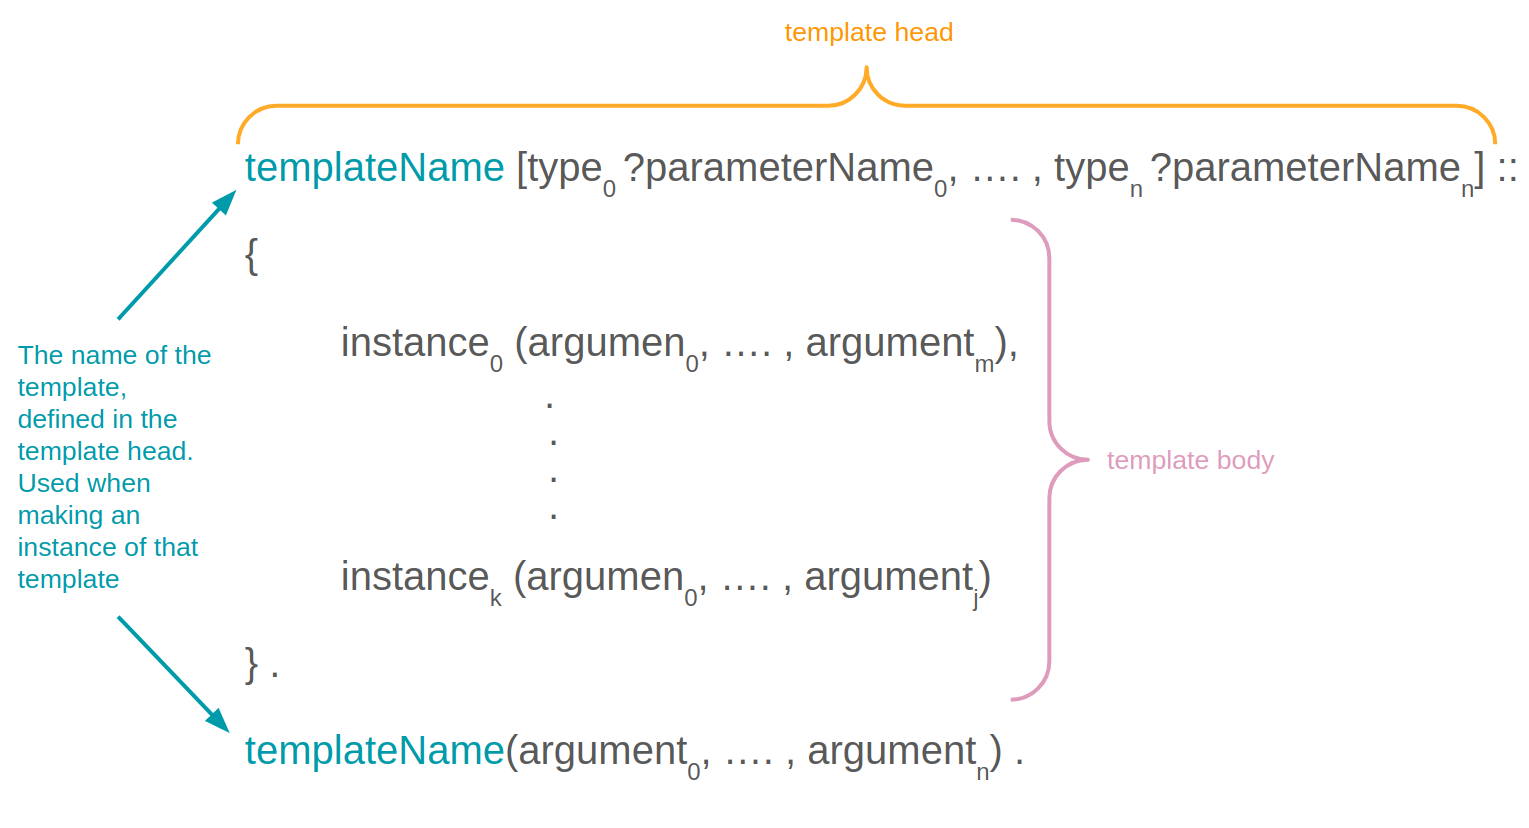
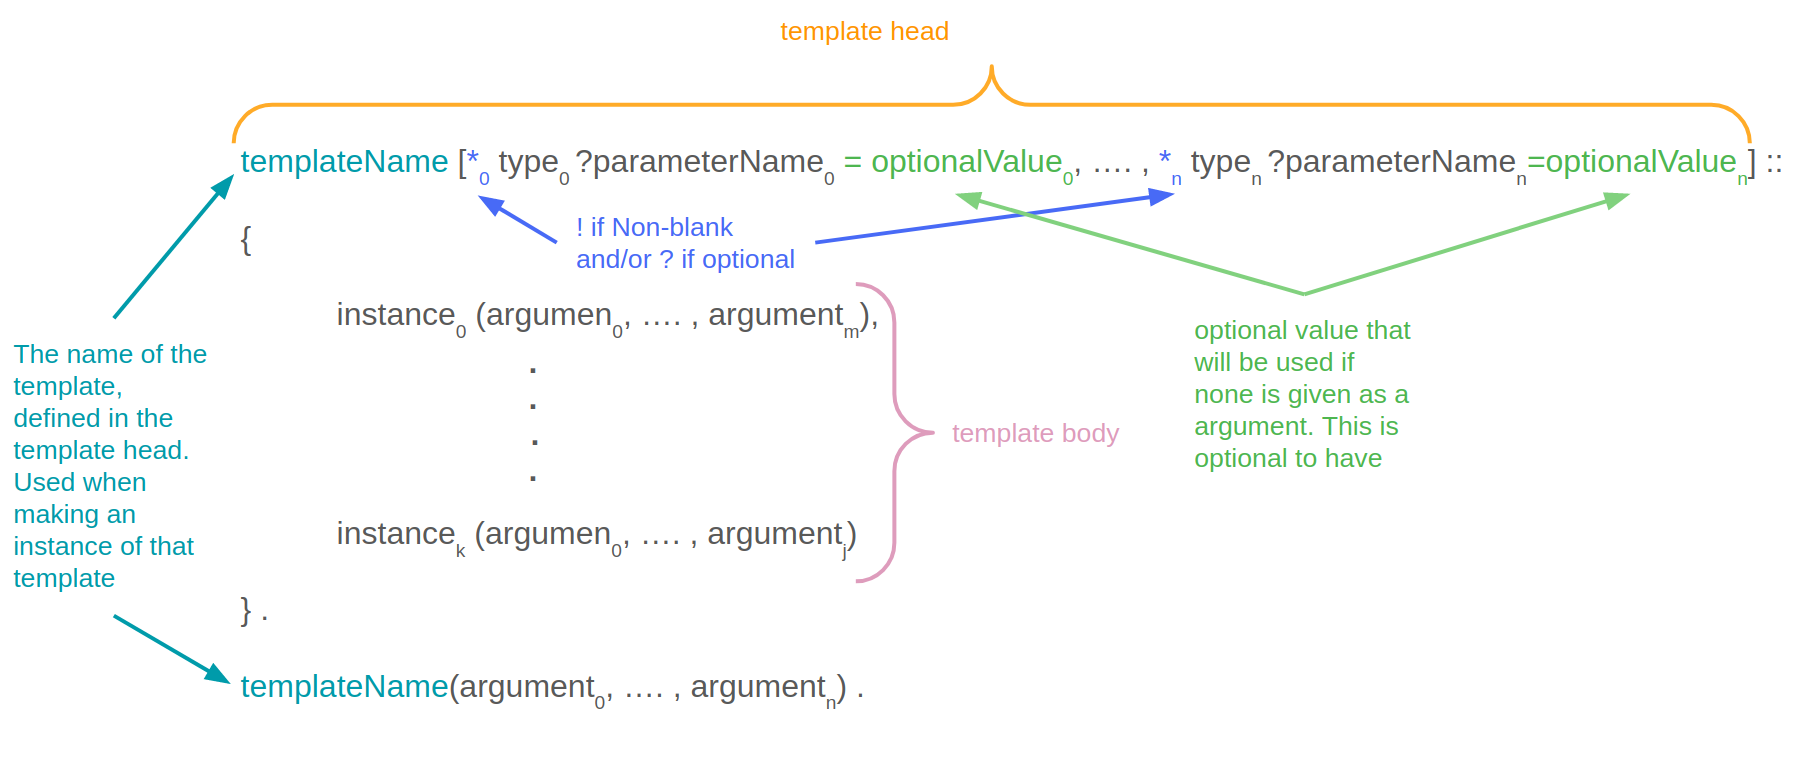
fix and more in frog chapter

diff --git a/src/sections/SemanticWebAndRDF.tex b/src/sections/SemanticWebAndRDF.tex
@@ -54,26 +54,26 @@ graph:
 \\ \\
 
 \begin{lstlisting}[frame=single, language=turtle]
-    @prefix  ex-p:  <http://example.org/person/> . 
-    @prefix ex-r:  <http://example.org/relation/> . 
-    @prefix xsd: <http://www.w3.org/2001/XMLSchema\#>  . 
-    ex-p:Sebastian ex-r:hasFather ex-p:Thommas .
-    ex-p:Sebastian ex-r:hasFather [ ex-r:hasFather ex-p:Roger] . 
-    ex-p:Sebastian ex-r:hasAge  "22"^^xsd:int . 
-    ex-p:Sebastian ex-r:hasName  Sebastian@no . 
-    ex-p:Sebastian ex-r:hasName  Bastian@en .
+@prefix  ex-p:  <http://example.org/person/> . 
+@prefix ex-r:  <http://example.org/relation/> . 
+@prefix xsd: <http://www.w3.org/2001/XMLSchema\#>  . 
+ex-p:Sebastian ex-r:hasFather ex-p:Thommas .
+ex-p:Sebastian ex-r:hasFather [ ex-r:hasFather ex-p:Roger] . 
+ex-p:Sebastian ex-r:hasAge  "22"^^xsd:int . 
+ex-p:Sebastian ex-r:hasName  Sebastian@no . 
+ex-p:Sebastian ex-r:hasName  Bastian@en .
 \end{lstlisting}
 In addition to the abbreviations we have already made turtle stile have some more abbreviations when writing the triples. For instanse if we have the same 
 predicate and subject several times, with different objects, we can just write the predicate and subject one time and seperate the objects with a ,. Futhermore 
 we can also abbreviate when we use the same subject severalt times by writne ; in the end of the line instead of . . This gives this turtle file:
 \\ \\
 \begin{lstlisting}[frame=single, language=turtle]
-    @prefix  ex-p:  <http://example.org/person/> . 
-    @prefix ex-r:  <http://example.org/relation/> . 
-    @prefix xsd: <http://www.w3.org/2001/XMLSchema\#>  . 
-    ex-p:Sebastian ex-r:hasFather ex-p:Thommas, [ ex-r:hasFather ex-p:Roger] ; 
-                   ex-r:hasAge  "22"^^xsd:int ; 
-                   ex-r:hasName  Sebastian@no, Bastian@en ;
+@prefix  ex-p:  <http://example.org/person/> . 
+@prefix ex-r:  <http://example.org/relation/> . 
+@prefix xsd: <http://www.w3.org/2001/XMLSchema\#>  . 
+ex-p:Sebastian ex-r:hasFather ex-p:Thommas, [ ex-r:hasFather ex-p:Roger] ; 
+                ex-r:hasAge  "22"^^xsd:int ; 
+                ex-r:hasName  Sebastian@no, Bastian@en ;
 \end{lstlisting}
 
 Figure \refname{fig:exampelGraph} is a visual graph of the graph we just made.
@@ -100,16 +100,16 @@ elements of the container), where the first memeber has ralation $rdf\_1$ and n-
 So if we whant to add an list to over rdf graph stating all Sebastian ancestors in a unorder set 
 it will look like this (Note that we have used the abbreviation \textit{a} for rdf:type):
 \begin{lstlisting}[frame=single, language=turtle]
-    @prefix  ex-p:  <http://example.org/person/> . 
-    @prefix ex-r:  <http://example.org/relation/> . 
-    @prefix xsd: <http://www.w3.org/2001/XMLSchema\#>  . 
-    @prefix rdf: <http://www.w3.org/1999/02/22-rdf-syntax-ns#> .
-    ex-p:Sebastian ex-r:hasFather ex-p:Thommas, [ ex-r:hasFather ex-p:Roger] ; 
-                   ex-r:hasAge  "22"^^xsd:int ; 
-                   ex-r:hasName  Sebastian@no, Bastian@en ;
-                   ex-r:ancestor [a rdf:Bag; 
-                                    rdf:_1 ex-p:Thommas; 
-                                    rdf:_2 ex-p:Roger].
+@prefix  ex-p:  <http://example.org/person/> . 
+@prefix ex-r:  <http://example.org/relation/> . 
+@prefix xsd: <http://www.w3.org/2001/XMLSchema\#>  . 
+@prefix rdf: <http://www.w3.org/1999/02/22-rdf-syntax-ns#> .
+ex-p:Sebastian ex-r:hasFather ex-p:Thommas, [ ex-r:hasFather ex-p:Roger] ; 
+                ex-r:hasAge  "22"^^xsd:int ; 
+                ex-r:hasName  Sebastian@no, Bastian@en ;
+                ex-r:ancestor [a rdf:Bag; 
+                                rdf:_1 ex-p:Thommas; 
+                                rdf:_2 ex-p:Roger].
 \end{lstlisting}
 The second way to make a list is by using collections. The main differense between a container 
 and a collection is that a collection is closed, menaing that we it can't be extended, 
@@ -123,14 +123,14 @@ to use () and put all the members of the list insided it. In the general chase i
 $(member_1 \;member_2 .... member_n)$
 To express that all Sebastian ancestors will then look like this:
 \begin{lstlisting}[frame=single, language=turtle]
-    @prefix  ex-p:  <http://example.org/person/> . 
-    @prefix ex-r:  <http://example.org/relation/> . 
-    @prefix xsd: <http://www.w3.org/2001/XMLSchema\#>  . 
-    @prefix rdf: <http://www.w3.org/1999/02/22-rdf-syntax-ns#> .
-    ex-p:Sebastian ex-r:hasFather ex-p:Thommas, [ ex-r:hasFather ex-p:Roger] ; 
-                   ex-r:hasAge  "22"^^xsd:int ; 
-                   ex-r:hasName  Sebastian@no, Bastian@en ;
-                   ex-r:ancestor (ex-p:Thommas rdf:_2 ex-p:Roger).
+@prefix  ex-p:  <http://example.org/person/> . 
+@prefix ex-r:  <http://example.org/relation/> . 
+@prefix xsd: <http://www.w3.org/2001/XMLSchema\#>  . 
+@prefix rdf: <http://www.w3.org/1999/02/22-rdf-syntax-ns#> .
+ex-p:Sebastian ex-r:hasFather ex-p:Thommas, [ ex-r:hasFather ex-p:Roger] ; 
+                ex-r:hasAge  "22"^^xsd:int ; 
+                ex-r:hasName  Sebastian@no, Bastian@en ;
+                ex-r:ancestor (ex-p:Thommas, ex-p:Roger).
 \end{lstlisting}
 
 \begin{figure}
@@ -146,7 +146,8 @@ ontologies and is a way to make user-defined abstractions to recurring modelling
 OTTR is build up by \textbf{templates}, that consist of a \textit{head} that specifices the name of the templates
 and the paramters, and a \textit{body} that contains the parameterised ontology pattern. We can also specify the types, which we will come back to, 
 and the cardainality of the paramters. There are two types of cardainalities mandatory or optional, optional is denoted with 
-a ? while mandatory is the the defualt and isn't denoted with any thing. Parameters can also specify a defualt value, that is used 
+a ? while mandatory is the the defualt and isn't denoted with any thing. In additon an paramter can be non-blank (meaning that it can't take inn 
+a blank node) this is denoted with !. Parameters can also specify a defualt value, that is used 
 whenever the corresponding argument in a instead of that template is none (a value in the OTTR framework used to represent a missing or no value). 
 \nameref{fig:stOTTERGenralisation} shows a generalisation of OTTR written in the seralisation stOTTR.
 \\ \\
@@ -172,37 +173,37 @@ a way to create instances from spreadsheets and bOTTR can make mappings over ser
 made makes a person, the instance of ex-t:Person will expand to the rdf graph made earlier.
 
 \begin{lstlisting}[frame=single]
-    @prefix  ex-p:  <http://example.org/person/> . 
-    @prefix ex-r:  <http://example.org/relation/> .
-    @prefix ex-t:  <http://example.org/template/> . 
-    @prefix xsd:  <http://www.w3.org/2001/XMLSchema#> . 
-    @prefix rdf: <http://www.w3.org/1999/02/22-rdf-syntax-ns#> .
-    @prefix ottr: <http://ns.ottr.xyz/0.4/> .
-    
-    
-    ex-t:Person [
-        ottr:IRI ?person,
-        xsd:integer ?age,
-        ? List<ottr:IRI> ?fathers,
-        ? List<ottr:IRI> ?mothers,
-        ? List<ottr:IRI> ?ancestors,
-        List<xsd:String> ?names
-     ] :: {
-        cross | ottr:Triple(?person, ex-r:hasFather, ++?fathers),
-        cross | ottr:Triple(?person, ex-r:hasMother, ++?mothers),
-        ottr:Triple(?person, ex-r:hasAge, ?age),
-        cross | ottr:Triple(?person, ex-r:hasName, ++?names),
-        ottr:Triple(?person, ex-r:ancestor, ?ancestors)
-    }.
-    
-    ottr:Triple(_:b, ex-r:hasFather, ex-p:Roger) .
-    ex-t:Person(ex-p:Sebastian, 22 , (ex-p:Thommas, _:b), none, 
-    (ex-p:Thommas, ex-p:Roger), ("Sebastian"@no, "Bastian"@en)).
+@prefix  ex-p:  <http://example.org/person/> . 
+@prefix ex-r:  <http://example.org/relation/> .
+@prefix ex-t:  <http://example.org/template/> . 
+@prefix xsd:  <http://www.w3.org/2001/XMLSchema#> . 
+@prefix rdf: <http://www.w3.org/1999/02/22-rdf-syntax-ns#> .
+@prefix ottr: <http://ns.ottr.xyz/0.4/> .
+
+
+ex-t:Person [
+    ottr:IRI ?person,
+    xsd:integer ?age,
+    ? List<ottr:IRI> ?fathers,
+    ? List<ottr:IRI> ?mothers,
+    ? List<ottr:IRI> ?ancestors,
+    List<xsd:String> ?names
+    ] :: {
+    cross | ottr:Triple(?person, ex-r:hasFather, ++?fathers),
+    cross | ottr:Triple(?person, ex-r:hasMother, ++?mothers),
+    ottr:Triple(?person, ex-r:hasAge, ?age),
+    cross | ottr:Triple(?person, ex-r:hasName, ++?names),
+    ottr:Triple(?person, ex-r:ancestor, ?ancestors)
+}.
+
+ottr:Triple(_:b, ex-r:hasFather, ex-p:Roger) .
+ex-t:Person(ex-p:Sebastian, 22 , (ex-p:Thommas, _:b), none, 
+(ex-p:Thommas, ex-p:Roger), ("Sebastian"@no, "Bastian"@en)).
 \end{lstlisting}
 
 \begin{figure}
     \centering
-    \includegraphics[scale=0.2]{stOTTRExample.png}
+    \includegraphics[width=1\textwidth]{stOTTRExample.png}
     \caption{A genralisation showing the syntax of stOTTR}
     \label{fig:stOTTERGenralisation}
 \end{figure}
@@ -217,6 +218,12 @@ is the subtype to all other types. While the type Top (represented with rdfs:Res
 LUB, \textbf{LUB<>} (denoted with ottr:Lub), stands for least upper bound, and for every basic type P there is also a LUB-type LUB<P> such that LUB<P> is 
 a subtype of P. Futhermore LUB<P> is compatible with all subtypes of P while P on the other hand is compatible with all supertype of P. 
 Futhermore we have to different types \textbf{List<>} (deonted with rdf:list ) and \textbf{NEList<>} (denoted with ottr:NEList), where 
-NEList stands for non empty list. Futhermore the 
+NEList stands for non empty list. In addition the 
 type system assume that there for each type P in the set of types exists a type List<P> and NEList<P>, and that 
-NEList<P> is a subtype of List<Q> for every type P that is a subclass of type Q.
+NEList<P> is a subtype of List<Q> for every type P that is a subtype of type Q.
+\\ \\
+One of the reasons to have types in OTTR is to make sure that the use of types is consistens. So
+if we have a blank node for exampel, which can be any thing (an ottr:IRI, xsd:string, xsd:integer, etc), and we use that blank node 
+in an instance that excepts an xsd:integer, this blank node will now be interpreted as an xsd:integer in the rest of the template. 
+Meaning that sending this node as an argument to a instance that expects a xsd:string whould give an error message. The result of this 
+is that the same resource allways have the same type, in other words that the typing is concise. 

diff --git a/src/sections/frog.tex b/src/sections/frog.tex
@@ -11,8 +11,79 @@ the terms using function. In the farenheit celcius exampel the solution with fro
 in the template body to convert the farenheit variable given in the head to celcius. 
 \\ \\
 Having a language like Frog that can make simple functions to mainpulate terms can do more than just convert terms, it can 
-also make it possible to add new inffered information. E.g. if we have the template ex-t:Person from figure (SETT INN LINK HER)
-and we want to add a tripel to the expanded template containing the information about wheter the person is an adult or not. This 
-is information that can be inffered from the age variable, we can make a new ottr:Tripel with the person as the object, ex-r:isAdult as the 
-predicate and the result of the function ex-f:ageToAdult 
+also make it possible to add new inffered information. E.g. if we have the template ex-t:Person from earlier
+and we want to add a tripel to the expanded template containing the information about wheter the person is an adult (ex-p:Adult) or a child (ex-p:Child). This 
+is information that can be inffered from the age variable, we can make a new ottr:Tripel with the person as the object, ex-r:lifestage as the 
+predicate and the result of the function ex-r:ageToLifeStage as the object. Where ex-r:ageToLifeStage is a frog function that takes in an xsd:integer
+as argument, and returns a ottr:IRI. The ottr template bellow shows the potential use of the frog function in 
+the ex-t:Person.
+
+\begin{lstlisting}[frame=single]
+@prefix  ex-p:  <http://example.org/person/> . 
+@prefix ex-r:  <http://example.org/relation/> .
+@prefix ex-t:  <http://example.org/template/> . 
+@prefix ex-f:  <http://example.org/function/> .
+@prefix xsd:  <http://www.w3.org/2001/XMLSchema#> . 
+@prefix rdf: <http://www.w3.org/1999/02/22-rdf-syntax-ns#> .
+@prefix ottr: <http://ns.ottr.xyz/0.4/> .
+
+ex-t:Person [
+    ottr:IRI ?person,
+    xsd:integer ?age,
+    ? List<ottr:IRI> ?fathers,
+    ? List<ottr:IRI> ?mothers,
+    ? List<ottr:IRI> ?ancestors,
+    List<xsd:String> ?names
+    ] :: {
+    cross | ottr:Triple(?person, ex-r:hasFather, ++?fathers),
+    cross | ottr:Triple(?person, ex-r:hasMother, ++?mothers),
+    ottr:Triple(?person, ex-r:hasAge, ?age),
+    cross | ottr:Triple(?person, ex-r:hasName, ++?names),
+    ottr:Triple(?person, ex-r:ancestor, ?ancestors),
+    ottr:Triple(?person, ex-r:lifestage, ex-f:ageToLifeStage ?age)
+}.
+\end{lstlisting}
+
+The expansion the two following two instances
+
+\begin{lstlisting}[frame=single]
+ottr:Triple(_:b, ex-r:hasFather, ex-p:Roger) .
+ex-t:Person(ex-p:Sebastian, 22 , (ex-p:Thommas, _:b), none, 
+(ex-p:Thommas, ex-p:Roger), ("Sebastian"@no, "Bastian"@en)).
+
+ex-t:person(ex-p:Nina, 6, none, none ,none, ("Nina"@no))
+\end{lstlisting}
+
+will then be
+\begin{lstlisting}[frame=single, language=turtle]
+@prefix  ex-p:  <http://example.org/person/> . 
+@prefix ex-r:  <http://example.org/relation/> . 
+@prefix xsd: <http://www.w3.org/2001/XMLSchema\#>  . 
+@prefix rdf: <http://www.w3.org/1999/02/22-rdf-syntax-ns#> .
+
+ex-p:Sebastian ex-r:hasFather ex-p:Thommas, [ ex-r:hasFather ex-p:Roger] ; 
+                ex-r:hasAge  "22"^^xsd:int ; 
+                ex-r:hasName  Sebastian@no, Bastian@en ;
+                ex-r:ancestor (ex-p:Thommas, ex-p:Roger);
+                ex-r:lifestage ex-p:Adult.
+
+ex-p:Nina ex-r:hasAge  "6"^^xsd:int ; 
+          ex-r:hasName  Nina@no ;
+          ex-r:lifestage ex-p:Child.
+\end{lstlisting}
+
+
+
+
 \subsection{Plans for Frog}
+The plan is that frog is a language that is to be written in RDF. In addition to being a high-order functional language, 
+with only pure functions. 
+Frog will also have a type system, which we will come bace to, and it should be clear form the definition of 
+the function what the type of the different parameters are and the type of the return value. 
+A frog function can only take in arguments and an return values that are a type from the OTTR type system, meaning that frog will have the same type system as OTTR.
+The advantage of this is that frog can do type checking, since a function has a return value we can check that the type of the return value is of the same type that 
+the argument in the instance needs to be.
+Since frog is supposed to be a high-order language and will have the same type system as OTTR  we need to add a new type to the OTTR type system, namely a 
+function type that we need to give to every frog function. There is one exception to frog being high-order and that is that a function that is used directly in a 
+template (like ex-f:ageToLifeStage in ex-t:Person) aren't allowed to return a function type. 
+

diff --git a/src/sections/functionalPrograming.tex b/src/sections/functionalPrograming.tex
@@ -336,13 +336,13 @@ part in that is meantion in the previous sections.
 Functional programming is a programming paradigm that is made up by applying and composing functions. Functional programming
 Futhermore functional programming is developed using a combination of \nameref{Lambda Calculus}, types and definitions, we se \nameref{Lambda Calculus} different impacts in several
 of the concepts in functional programming. 
-First off functional programming uses high-order function, which are functions that can be taken in as 
-an argument or retruned. In other words functional programming allows function to be both an argument an a return value of a function. This is someting 
+First off functional programming uses high-order function, which are functions that can take in functions as arguments
+and return a function. In other words functional programming allows function to be both an argument an a return value of a function. This is someting 
 we se in lambda calculs as well. Some well known high-order functions is map (which takes in a function taking in one argument and a list and applies the function on every element, returning 
 a new list with every element in the original list mapped), 
 filter(which takes in a function with one arguemnt and a list and applies it to each element of the list, the function should return a boolean, and retuns a new list with only the elements
 that returned true in the function), and reduce also called fold (which recursivley applies the function that was given as the first argument to the next ones). 
-The use of highe-order function i functional programming enable partial application or currying. Partial application or currying is a technique
+The use of high-order function i functional programming enable partial application or currying. Partial application or currying is a technique
 where every arguemnt to a function is applied on at a time, from the first one to the last one. this is also something that is inspired from
 lambda calculs, as we already seen lambda calculs also applies its arguments one at a time.
 \\ \\
